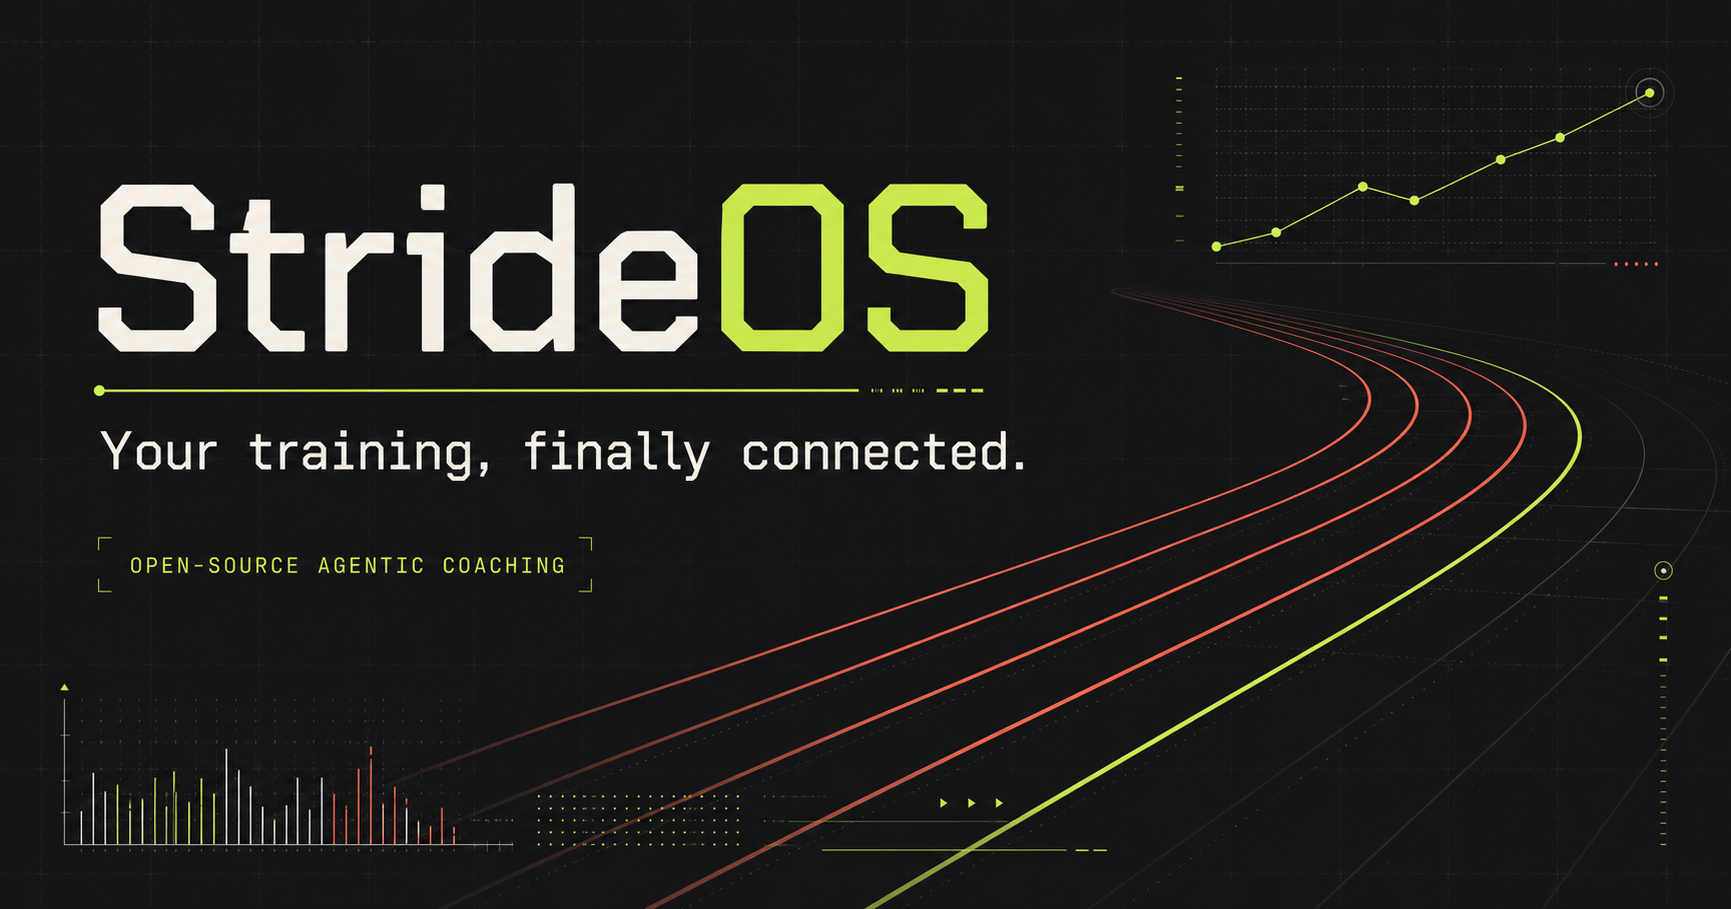
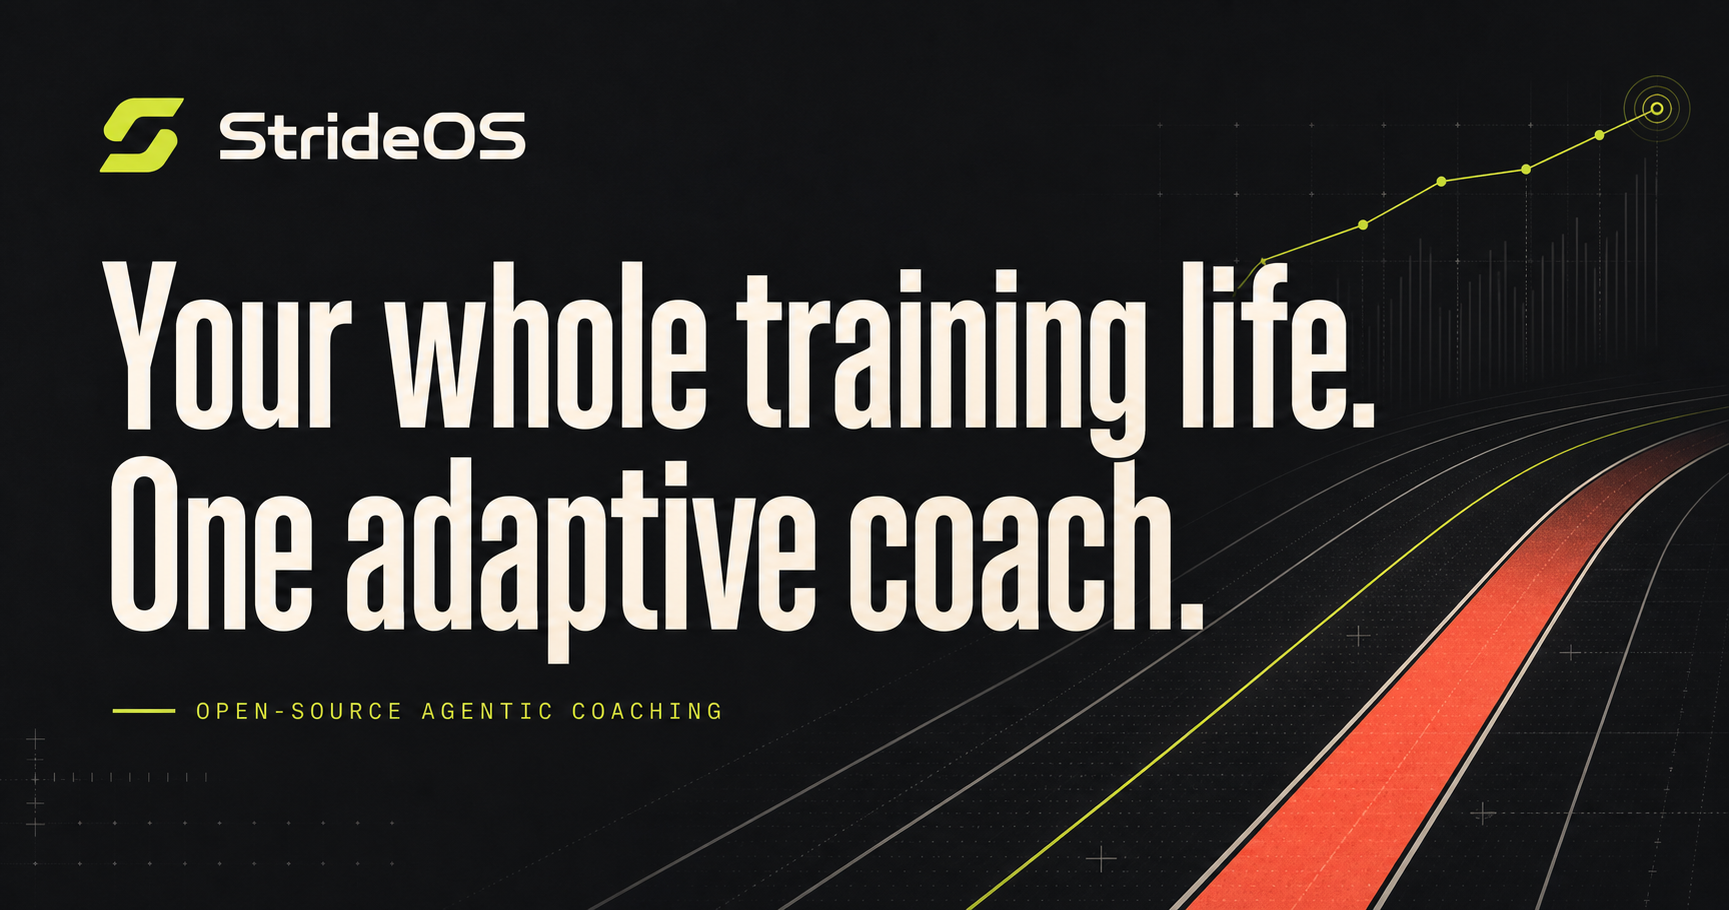
Use real dashboard capture in landing hero

diff --git a/sites/strideos-landing/app/page.tsx b/sites/strideos-landing/app/page.tsx
@@ -1,3 +1,5 @@
+import Image from "next/image";
+
 const dashboardUrl =
   "https://strideos-coach-demo.gogov-nikola22.chatgpt.site/";
 const githubUrl = "https://github.com/Kikser1214/strideos-harness";
@@ -29,7 +31,7 @@ const capabilities = [
   ["Adaptive training", "Plans respond to readiness, pain, schedule, and completed work—not a rigid calendar."],
   ["Strength included", "Running and strength live in one plan, with beginner-safe progressions and clear intent."],
   ["Loose nutrition", "Use meal photos and simple preferences for practical guidance without turning life into a spreadsheet."],
-  ["Coach review", "Share a readable dashboard, collect feedback, and keep the athlete in charge of the final decision."],
+  ["Human coach review", "Invite a real coach or experienced friend to review the plan, suggest precise edits, and keep the athlete in charge of the final decision."],
 ];
 
 export default function Home() {
@@ -54,7 +56,7 @@ export default function Home() {
       <section className="hero" id="top">
         <div className="hero-copy">
           <p className="eyebrow"><span /> Open-source agentic coaching</p>
-          <h1>Your training,<br />finally connected.</h1>
+          <h1>Your whole training life.<br />One adaptive coach.</h1>
           <p className="hero-lede">
             StrideOS is a rule-governed AI coaching harness that turns your
             training, recovery, nutrition, and real life into one explainable
@@ -71,48 +73,12 @@ export default function Home() {
           <p className="hero-note">Built for Codex and ChatGPT · Watch optional · Athlete approved</p>
         </div>
 
-        <div className="hero-visual" aria-label="StrideOS training dashboard preview">
-          <div className="orbit orbit-one" />
-          <div className="orbit orbit-two" />
-          <div className="dash-shell">
-            <div className="dash-topbar">
-              <div className="mini-brand"><span>S/</span> Athlete room</div>
-              <div className="live-pill"><span /> Synced</div>
-            </div>
-            <div className="readiness-row">
-              <div>
-                <p>Today · Tuesday</p>
-                <strong>Ready to build</strong>
-              </div>
-              <div className="readiness-score">84<span>/100</span></div>
-            </div>
-            <div className="workout-card">
-              <div className="workout-head">
-                <div><span className="label">KEY SESSION</span><h2>Threshold intervals</h2></div>
-                <span className="duration">58 min</span>
-              </div>
-              <div className="workout-chart" aria-hidden="true">
-                <span className="warmup" />
-                <span className="rep tall" />
-                <span className="rest" />
-                <span className="rep taller" />
-                <span className="rest" />
-                <span className="rep tall" />
-                <span className="cooldown" />
-              </div>
-              <div className="workout-meta"><span>3 × 10 min</span><span>Controlled threshold</span></div>
-            </div>
-            <div className="coach-note">
-              <span className="coach-avatar">AI</span>
-              <p><strong>Why this session?</strong><br />Your recovery is stable and the last two quality sessions were controlled. Keep the final rep honest, not heroic.</p>
-            </div>
-            <div className="approval-row">
-              <span>Plan change requires your approval</span>
-              <button type="button">Review proposal</button>
-            </div>
-          </div>
-          <div className="signal-card signal-top"><span>↗</span><div><strong>Durability</strong><small>Trending up</small></div></div>
-          <div className="signal-card signal-bottom"><span>✓</span><div><strong>Coach reviewed</strong><small>2 notes resolved</small></div></div>
+        <div className="hero-visual">
+          <a className="real-dashboard" href={dashboardUrl} target="_blank" rel="noreferrer" aria-label="Open the real StrideOS personal training site">
+            <Image src="/dashboard-plan.png" width={2747} height={1951} priority sizes="(max-width: 1100px) 92vw, 52vw" alt="Real StrideOS personal site showing a four-week training plan and detailed threshold session" />
+            <span className="real-dashboard-label"><b>REAL PRODUCT VIEW</b><small>Training plan · weekly details · full block · history</small></span>
+            <span className="open-dashboard-badge">Open personal site <b>↗</b></span>
+          </a>
         </div>
       </section>
 

diff --git a/sites/strideos-landing/app/globals.css b/sites/strideos-landing/app/globals.css
@@ -77,6 +77,12 @@ nav a:hover, footer a:hover { opacity: .6; }
 .signal-card strong, .signal-card small { display: block; }
 .signal-card strong { font-size: 11px; }.signal-card small { margin-top: 3px; font: 8px var(--font-geist-mono); }
 .signal-top { top: 16%; right: 3%; }.signal-bottom { bottom: 14%; left: 3%; background: #f8f7f1; transform: rotate(2deg); }
+.real-dashboard { width: min(900px, 91%); position: relative; z-index: 2; display: block; border: 1px solid rgba(255,255,255,.28); background: #f7f5ed; box-shadow: 0 40px 100px rgba(0,0,0,.48); transform: rotate(-.7deg); transition: transform .25s ease; }
+.real-dashboard:hover { transform: rotate(0) translateY(-4px); }
+.real-dashboard img { width: 100%; height: auto; display: block; }
+.real-dashboard-label { position: absolute; left: 16px; top: 16px; padding: 10px 12px; background: rgba(17,18,15,.92); color: white; box-shadow: 0 8px 22px rgba(0,0,0,.2); }
+.real-dashboard-label b,.real-dashboard-label small { display: block; }.real-dashboard-label b { color: var(--lime); font: 8px var(--font-geist-mono); letter-spacing: .09em; }.real-dashboard-label small { margin-top: 4px; color: #d8d9d3; font: 7px var(--font-geist-mono); }
+.open-dashboard-badge { position: absolute; right: 16px; bottom: 16px; padding: 11px 13px; display: flex; align-items: center; gap: 22px; background: var(--lime); color: var(--ink); font-size: 10px; font-weight: 800; box-shadow: 0 8px 22px rgba(0,0,0,.2); }.open-dashboard-badge b { font-size: 13px; }
 
 .trust-strip { min-height: 82px; padding: 20px clamp(24px, 6vw, 100px); display: flex; justify-content: space-between; align-items: center; gap: 20px; font: 600 11px var(--font-geist-mono); text-transform: uppercase; letter-spacing: .1em; }
 .trust-strip i { width: 4px; height: 4px; border-radius: 50%; background: var(--orange); }
@@ -158,7 +164,7 @@ footer p { margin: 0; }footer > div { display: flex; gap: 22px; }footer small { 
 }
 
 @media (max-width: 720px) {
-  .site-header { height: 66px; }.site-header nav { display: none; }.nav-cta { font-size: 11px; }.hero { min-height: 0; }.hero-copy { min-height: 640px; padding-top: 80px; }.hero h1 { font-size: clamp(58px, 18vw, 82px); }.hero-visual { min-height: 570px; }.dash-shell { width: 88%; }.signal-card { display: none; }.trust-strip { flex-wrap: wrap; justify-content: center; }.trust-strip i { display: none; }.trust-strip span { width: 40%; text-align: center; }.section-heading, .section-heading.compact { grid-template-columns: 1fr; gap: 20px; }.section-heading > p:last-child { grid-column: 1; }.loop-grid, .runner-section, .capability-grid { grid-template-columns: 1fr; }.loop-card { min-height: 240px; }.runner-panel { min-height: 600px; padding: 60px 24px; }.week-preview { grid-template-columns: repeat(4, 1fr); }.week-preview div { border-bottom: 1px solid rgba(17,18,15,.18); }.capability-grid article, .capability-grid article:nth-child(odd), .capability-grid article:nth-child(even) { border-right: 0; padding: 45px 0; }.collaboration-section, .integration-section, .control-section { padding-left: 24px; padding-right: 24px; }.coach-mode-board { padding: 18px; transform: none; box-shadow: 10px 10px 0 rgba(17,18,15,.15); }.board-metrics { grid-template-columns: 1fr; }.board-metrics span,.board-metrics span:first-child { padding: 7px 0; border-right: 0; border-bottom: 1px solid var(--line); }.board-metrics span:last-child { border-bottom: 0; }.coach-comment { margin-left: 0; }.integration-list article { grid-template-columns: 46px 1fr; }.integration-list article > span { grid-column: 2; margin-top: -20px; }.decision-actions { grid-template-columns: 1fr; }.final-cta { min-height: 600px; }.centered-actions { width: 100%; }.centered-actions .button { width: 100%; }footer { grid-template-columns: 1fr; text-align: left; }.approval-row span { max-width: 150px; }
+  .site-header { height: 66px; }.site-header nav { display: none; }.nav-cta { font-size: 11px; }.hero { min-height: 0; }.hero-copy { min-height: 640px; padding-top: 80px; }.hero h1 { font-size: clamp(54px, 16vw, 78px); }.hero-visual { min-height: 570px; }.real-dashboard { width: 92%; transform: none; }.real-dashboard-label { left: 10px; top: 10px; }.open-dashboard-badge { right: 10px; bottom: 10px; }.signal-card { display: none; }.trust-strip { flex-wrap: wrap; justify-content: center; }.trust-strip i { display: none; }.trust-strip span { width: 40%; text-align: center; }.section-heading, .section-heading.compact { grid-template-columns: 1fr; gap: 20px; }.section-heading > p:last-child { grid-column: 1; }.loop-grid, .runner-section, .capability-grid { grid-template-columns: 1fr; }.loop-card { min-height: 240px; }.runner-panel { min-height: 600px; padding: 60px 24px; }.week-preview { grid-template-columns: repeat(4, 1fr); }.week-preview div { border-bottom: 1px solid rgba(17,18,15,.18); }.capability-grid article, .capability-grid article:nth-child(odd), .capability-grid article:nth-child(even) { border-right: 0; padding: 45px 0; }.collaboration-section, .integration-section, .control-section { padding-left: 24px; padding-right: 24px; }.coach-mode-board { padding: 18px; transform: none; box-shadow: 10px 10px 0 rgba(17,18,15,.15); }.board-metrics { grid-template-columns: 1fr; }.board-metrics span,.board-metrics span:first-child { padding: 7px 0; border-right: 0; border-bottom: 1px solid var(--line); }.board-metrics span:last-child { border-bottom: 0; }.coach-comment { margin-left: 0; }.integration-list article { grid-template-columns: 46px 1fr; }.integration-list article > span { grid-column: 2; margin-top: -20px; }.decision-actions { grid-template-columns: 1fr; }.final-cta { min-height: 600px; }.centered-actions { width: 100%; }.centered-actions .button { width: 100%; }footer { grid-template-columns: 1fr; text-align: left; }.approval-row span { max-width: 150px; }
 }
 
 @media (prefers-reduced-motion: reduce) { html { scroll-behavior: auto; }.button { transition: none; } }

diff --git a/sites/strideos-landing/app/layout.tsx b/sites/strideos-landing/app/layout.tsx
@@ -17,7 +17,7 @@ export const metadata: Metadata = {
   description:
     "A rule-governed AI coaching harness that connects training, recovery, nutrition, and real life into one explainable plan.",
   openGraph: {
-    title: "StrideOS — Your training, finally connected.",
+    title: "StrideOS — Your whole training life. One adaptive coach.",
     description:
       "Open-source agentic coaching for runners, with every important decision under athlete control.",
     type: "website",
@@ -25,7 +25,7 @@ export const metadata: Metadata = {
   },
   twitter: {
     card: "summary_large_image",
-    title: "StrideOS — Your training, finally connected.",
+    title: "StrideOS — Your whole training life. One adaptive coach.",
     description: "Open-source agentic coaching for runners.",
     images: ["/og.png"],
   },